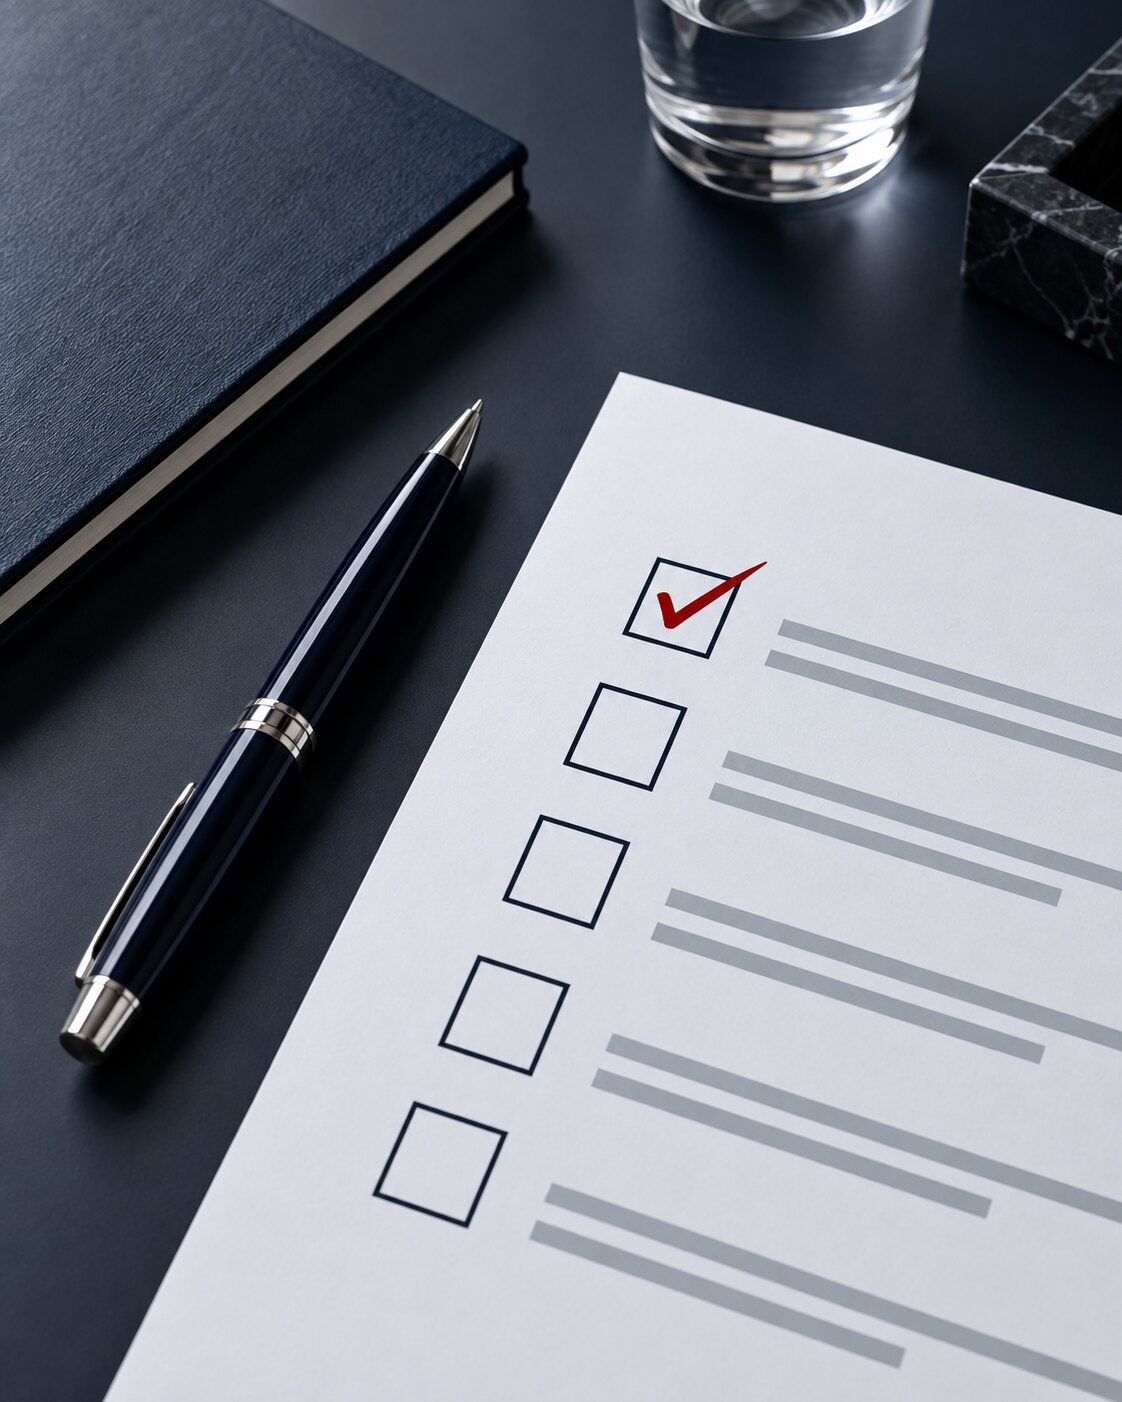
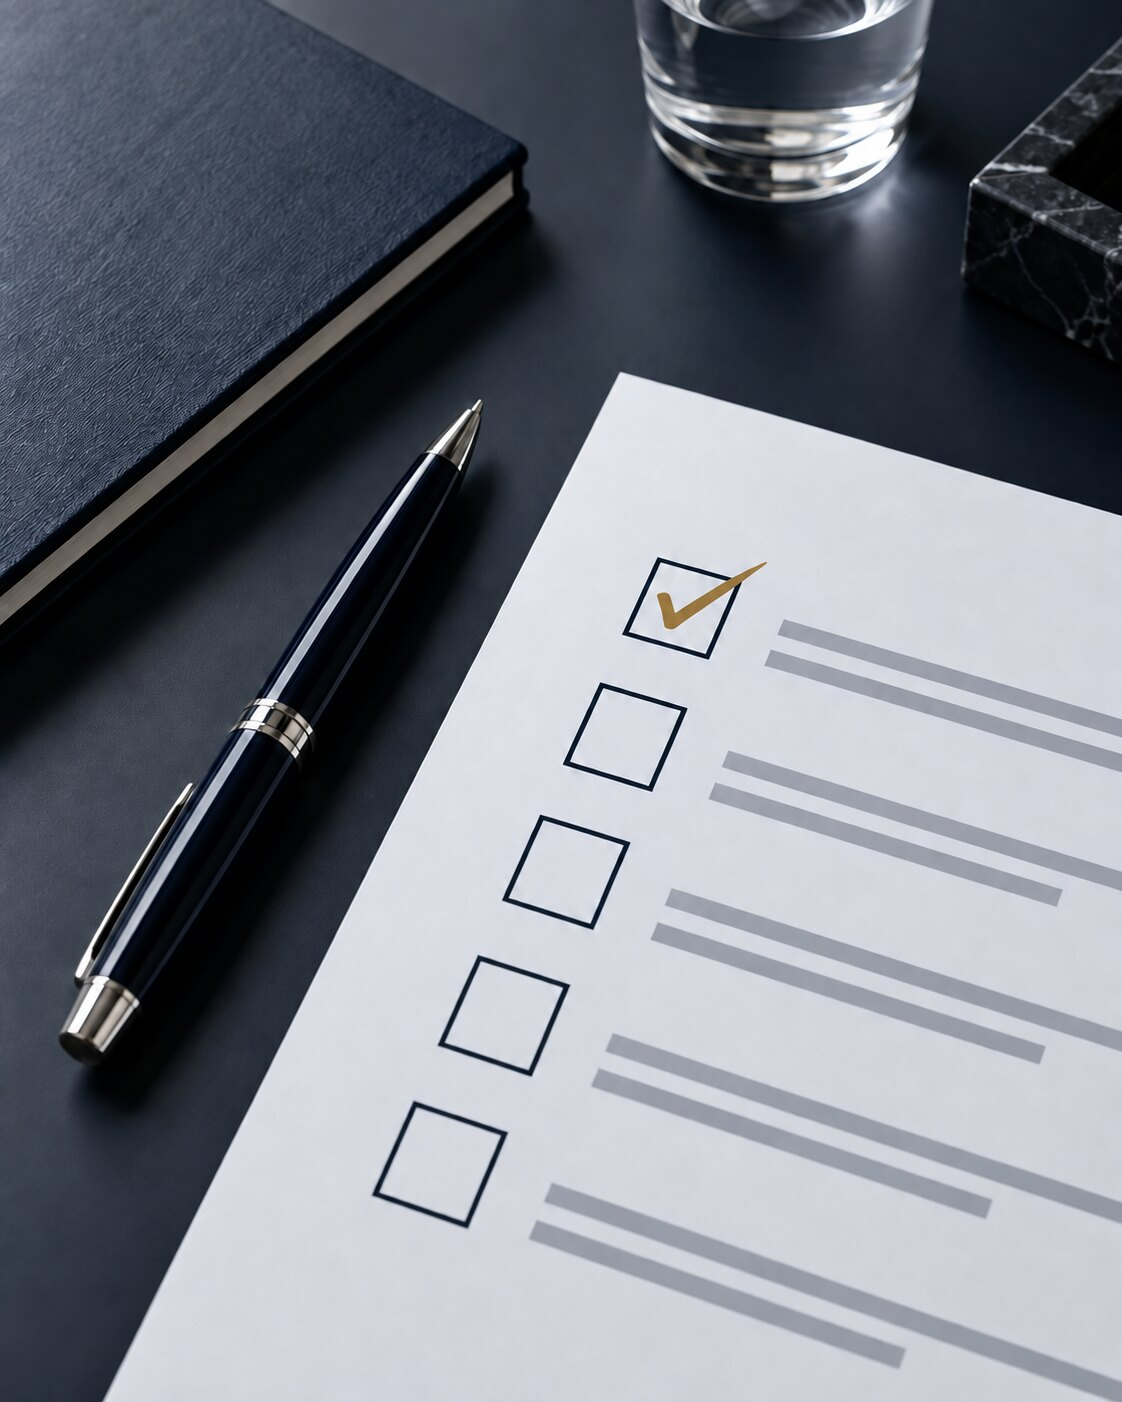
Add files via upload

diff --git a/styles.css b/styles.css
@@ -15,7 +15,7 @@
 :root {
   --navy: #0b151f;
   --navy-light: #14222e;
-  --red: #f00036;
+  --gold: #c5a15a;
   --white: #ffffff;
   --muted: #c3cbd1;
   --line: #52616d;
@@ -116,7 +116,7 @@ h1, h2, h3, .statement p {
   align-items: flex-start;
   gap: 5px;
   background: var(--navy);
-  border-bottom: 4px solid var(--red);
+  border-bottom: 4px solid var(--gold);
 }
 
 .main-nav.open { display: flex; }
@@ -161,7 +161,7 @@ h1, h2, h3, .statement p {
   width: 28px;
   height: 4px;
   flex: 0 0 28px;
-  background: var(--red);
+  background: var(--gold);
 }
 
 .hero {
@@ -182,7 +182,7 @@ h1, h2, h3, .statement p {
 
 .hero h1 em {
   display: inline;
-  color: var(--red);
+  color: var(--gold);
   font-style: normal;
 }
 
@@ -211,8 +211,8 @@ h1, h2, h3, .statement p {
   align-items: center;
   justify-content: space-between;
   gap: 18px;
-  background: var(--red);
-  color: var(--white);
+  background: var(--gold);
+  color: var(--navy);
   font-size: 16px;
   font-weight: 800;
   line-height: 1.35;
@@ -237,7 +237,7 @@ h1, h2, h3, .statement p {
 }
 
 .text-link span {
-  color: var(--red);
+  color: var(--gold);
   font-size: 21px;
   transition: transform .25s ease;
 }
@@ -275,7 +275,8 @@ h1, h2, h3, .statement p {
   grid-template-columns: auto 1fr;
   align-items: center;
   gap: 16px;
-  background: var(--red);
+  background: var(--gold);
+  color: var(--navy);
 }
 
 .hero-media figcaption strong {
@@ -286,14 +287,14 @@ h1, h2, h3, .statement p {
 
 .hero-media figcaption span {
   padding-left: 15px;
-  border-left: 1px solid rgba(255,255,255,.65);
+  border-left: 1px solid rgba(11,21,31,.45);
   font-size: 13px;
   line-height: 1.45;
 }
 
 .statement {
   padding: 62px var(--page);
-  background: var(--red);
+  background: var(--gold);
 }
 
 .statement p {
@@ -302,7 +303,7 @@ h1, h2, h3, .statement p {
   font-size: clamp(43px, 13vw, 66px);
 }
 
-.statement strong { color: var(--white); }
+.statement strong { color: var(--navy); }
 
 .solutions,
 .articles {
@@ -352,7 +353,7 @@ h1, h2, h3, .statement p {
   position: absolute;
   inset: 0;
   z-index: -1;
-  background: var(--red);
+  background: var(--gold);
   transform: translateY(101%);
   transition: transform .4s cubic-bezier(.2,.75,.25,1);
 }
@@ -384,19 +385,23 @@ h1, h2, h3, .statement p {
   transition: color .3s ease;
 }
 
-.solution-card:hover p { color: var(--white); }
+.solution-card:hover,
+.solution-card:focus-within { color: var(--navy); }
+
+.solution-card:hover p,
+.solution-card:focus-within p { color: var(--navy); }
 
 .card-arrow {
   position: absolute;
   top: 24px;
   right: 24px;
-  color: var(--red);
+  color: var(--gold);
   font-size: 26px;
   transition: transform .3s ease, color .3s ease;
 }
 
 .solution-card:hover .card-arrow {
-  color: var(--white);
+  color: var(--navy);
   transform: rotate(-45deg);
 }
 
@@ -432,7 +437,8 @@ h1, h2, h3, .statement p {
   left: 0;
   z-index: 2;
   padding: 11px 18px;
-  background: var(--red);
+  background: var(--gold);
+  color: var(--navy);
   font-family: Oswald, sans-serif;
   font-size: 21px;
   line-height: 1;
@@ -500,7 +506,7 @@ h1, h2, h3, .statement p {
 
 .publication-copy .category {
   margin: 0 0 22px;
-  color: var(--red);
+  color: var(--gold);
   font-size: 13px;
   font-weight: 800;
   line-height: 1.35;
@@ -532,29 +538,30 @@ h1, h2, h3, .statement p {
 
 .read-more b {
   padding-left: 12px;
-  color: var(--red);
+  color: var(--gold);
   font-size: 19px;
 }
 
 .publication:hover .publication-copy,
-.publication:focus .publication-copy { background: var(--red); }
+.publication:focus .publication-copy { background: var(--gold); }
 
 .publication:hover .publication-copy .category,
 .publication:focus .publication-copy .category,
 .publication:hover .publication-copy > p,
 .publication:focus .publication-copy > p,
 .publication:hover .read-more b,
-.publication:focus .read-more b { color: var(--white); }
+.publication:focus .read-more b { color: var(--navy); }
 
 .publication:hover .publication-image img,
 .publication:focus .publication-image img { transform: scale(1.04); }
 
 .contact {
   padding: 68px var(--page) 74px;
-  background: var(--red);
+  background: var(--gold);
+  color: var(--navy);
 }
 
-.contact .eyebrow > span { background: var(--white); }
+.contact .eyebrow > span { background: var(--navy); }
 
 .contact h2 {
   max-width: 720px;
@@ -585,7 +592,7 @@ h1, h2, h3, .statement p {
   margin-top: 35px;
   display: grid;
   gap: 0;
-  border-top: 1px solid rgba(255,255,255,.55);
+  border-top: 1px solid rgba(11,21,31,.4);
 }
 
 .contact-line {
@@ -593,7 +600,7 @@ h1, h2, h3, .statement p {
   padding: 17px 0;
   display: grid;
   gap: 3px;
-  border-bottom: 1px solid rgba(255,255,255,.55);
+  border-bottom: 1px solid rgba(11,21,31,.4);
   font-size: 16px;
   line-height: 1.45;
   overflow-wrap: anywhere;
@@ -714,7 +721,7 @@ h1, h2, h3, .statement p {
     right: 100%;
     bottom: 2px;
     height: 3px;
-    background: var(--red);
+    background: var(--gold);
     transition: right .25s ease;
   }
 
@@ -736,9 +743,9 @@ h1, h2, h3, .statement p {
     transition: background .25s ease, color .25s ease;
   }
 
-  .header-action span { color: var(--red); }
-  .header-action:hover { background: var(--red); color: var(--white); }
-  .header-action:hover span { color: var(--white); }
+  .header-action span { color: var(--gold); }
+  .header-action:hover { background: var(--gold); color: var(--navy); }
+  .header-action:hover span { color: var(--navy); }
 
   .hero {
     min-height: 720px;

diff --git a/404.html b/404.html
@@ -1,1 +1,1 @@
-<!doctype html><html lang="pt-BR"><head><meta charset="utf-8"><meta name="viewport" content="width=device-width,initial-scale=1"><title>Página não encontrada | Samires Galvão</title><style>@font-face{font-family:Oswald;src:url('assets/oswald.ttf')}body{margin:0;min-height:100vh;display:grid;place-items:center;background:#0b151f;color:#fff;font-family:Arial,sans-serif}.box{max-width:700px;padding:40px;border-left:8px solid #f00036}small{color:#f00036;font-weight:800}h1{font:600 72px/1 Oswald,Impact,sans-serif;margin:25px 0}a{color:#fff;text-underline-offset:7px;font-weight:700}</style></head><body><main class="box"><small>ERRO 404</small><h1>ESTA PÁGINA NÃO<br>FOI ENCONTRADA.</h1><a href="./">Voltar ao site →</a></main></body></html>
+<!doctype html><html lang="pt-BR"><head><meta charset="utf-8"><meta name="viewport" content="width=device-width,initial-scale=1"><title>Página não encontrada | Samires Galvão</title><style>@font-face{font-family:Oswald;src:url('assets/oswald.ttf')}body{margin:0;min-height:100vh;display:grid;place-items:center;background:#0b151f;color:#fff;font-family:Arial,sans-serif}.box{max-width:700px;padding:40px;border-left:8px solid #c5a15a}small{color:#c5a15a;font-weight:800}h1{font:600 72px/1 Oswald,Impact,sans-serif;margin:25px 0}a{color:#fff;text-underline-offset:7px;font-weight:700}</style></head><body><main class="box"><small>ERRO 404</small><h1>ESTA PÁGINA NÃO<br>FOI ENCONTRADA.</h1><a href="./">Voltar ao site →</a></main></body></html>

diff --git a/README.md b/README.md
@@ -1,6 +1,6 @@
 # Site da Dra. Samires Galvão
 
-Site institucional estático de advocacia trabalhista empresarial. A identidade usa azul-preto, vermelho, tipografia condensada e uma composição editorial inspirada em grandes escritórios empresariais internacionais. O layout foi construído primeiro para celulares e depois adaptado para monitores.
+Site institucional estático de advocacia trabalhista empresarial. A identidade usa azul-preto, dourado sóbrio, tipografia condensada e uma composição editorial inspirada em grandes escritórios empresariais internacionais. O layout foi construído primeiro para celulares e depois adaptado para monitores.
 
 ## Publicar no GitHub Pages
 
